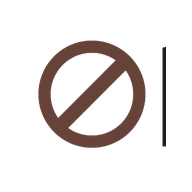
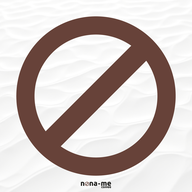
Add files via upload

diff --git a/app.js b/app.js
@@ -15,15 +15,42 @@ S.cms={...CMS_DEFAULTS,...(S.cms||{}),nav:{...CMS_DEFAULTS.nav,...((S.cms||{}).n
 S.products=Array.isArray(S.products)?S.products:[];S.promotions=Array.isArray(S.promotions)?S.promotions:[];S.users=Array.isArray(S.users)&&S.users.length?S.users:CMS_DEFAULTS.users||[{id:"u1",name:"Admin",username:"admin",password:"admin",role:"admin",active:true}];S.sales=Array.isArray(S.sales)?S.sales:[];S.expenses=Array.isArray(S.expenses)?S.expenses:[];S.deposits=Array.isArray(S.deposits)?S.deposits:[];S.cashCounts=Array.isArray(S.cashCounts)?S.cashCounts:[];S.stock=Array.isArray(S.stock)?S.stock:[];S.settings={shopName:"nona-me coffee",phone:"",address:"",telegram:"",rate:4000,...(S.settings||{})};S.ui={category:S.ui?.category||"All",search:S.ui?.search||"",menuView:S.ui?.menuView||"grid",currency:S.ui?.currency||"KHR",payment:S.ui?.payment||"Cash",cart:Array.isArray(S.ui?.cart)?S.ui.cart:[],adminSection:S.ui?.adminSection||"overview"};
 if(S.__migratedFrom){delete S.__migratedFrom;try{localStorage.setItem(KEY,JSON.stringify(S))}catch{}}
 
-function save(){localStorage.setItem(KEY,JSON.stringify(S))}
+const CLOUD={url:"https://aucwgnbhcbcovmshjmuo.supabase.co",key:"sb_publishable_XKT_TSLgOd75bhapXEUZ2Q_rs98dwcO",table:"nona_me_state",rowId:"main"};
+let cloudClient=null, cloudTimer=null, cloudBusy=false, cloudReady=false, cloudLast="", cloudSession=null;
+try{if(window.supabase?.createClient)cloudClient=window.supabase.createClient(CLOUD.url,CLOUD.key,{auth:{persistSession:true,autoRefreshToken:true,detectSessionInUrl:true}})}catch(e){console.warn("Supabase init failed",e)}
+function cloudState(){try{const x=JSON.parse(JSON.stringify(S));x.user=null;x.role=null;return x}catch{return {}}}
+function saveLocal(){localStorage.setItem(KEY,JSON.stringify(S))}
+function save(){saveLocal(); if(cloudClient&&cloudSession) queueCloudSave()}
+let cloudSaveTimer=null;
+function queueCloudSave(){clearTimeout(cloudSaveTimer);cloudSaveTimer=setTimeout(pushCloudState,250)}
+async function pushCloudState(){if(!cloudClient||!cloudSession||cloudBusy)return;cloudBusy=true;try{const payload={id:CLOUD.rowId,state:cloudState(),updated_at:new Date().toISOString()};const {error}=await cloudClient.from(CLOUD.table).upsert(payload,{onConflict:"id"});if(error)throw error;cloudReady=true;cloudLast=payload.updated_at;setCloudBadge()}catch(e){cloudReady=false;console.warn("Cloud save failed",e);setCloudBadge()}finally{cloudBusy=false}}
+async function pullCloudState(){if(!cloudClient||!cloudSession)return false;try{const {data,error}=await cloudClient.from(CLOUD.table).select("state,updated_at").eq("id",CLOUD.rowId).maybeSingle();if(error)throw error;if(data?.state){const incoming=data.state;const oldUser=S.user,oldRole=S.role;S={...S,...incoming,user:oldUser||S.user,role:oldRole||S.role,ui:{...S.ui,...(incoming.ui||{})}};saveLocal();cloudReady=true;cloudLast=data.updated_at||"";setCloudBadge();return true}return false}catch(e){console.warn("Cloud pull failed",e);cloudReady=false;setCloudBadge();return false}}
+async function loadCloudProfile(session){if(!cloudClient||!session?.user)return null;const {data,error}=await cloudClient.from("nona_me_profiles").select("id,display_name,role,active").eq("id",session.user.id).maybeSingle();if(error){console.warn("Profile load failed",error);return null}return data}
+async function signInCloud(email,password){if(!cloudClient)return false;const {data,error}=await cloudClient.auth.signInWithPassword({email,password});if(error){throw error}cloudSession=data.session;const profile=await loadCloudProfile(cloudSession);if(profile?.active===false)throw new Error("Account disabled");const name=profile?.display_name||email.split("@")[0];S.user={id:cloudSession.user.id,name,username:email,role:profile?.role||"staff",email};S.role=profile?.role||"staff";S.remember=true;saveLocal();await pullCloudState();return true}
+async function signUpCloud(email,password,name){if(!cloudClient)throw new Error("Cloud unavailable");const {data,error}=await cloudClient.auth.signUp({email,password,options:{data:{display_name:name||email.split("@")[0]}}});if(error)throw error;if(data.session){cloudSession=data.session;const profile=await loadCloudProfile(cloudSession);S.user={id:data.user.id,name:profile?.display_name||name||email.split("@")[0],username:email,role:profile?.role||"staff",email};S.role=profile?.role||"staff";saveLocal();await pullCloudState();}else{alert(S.lang==="kh"?"សូមពិនិត្យ Email ដើម្បីបញ្ជាក់គណនី មុនចូលប្រើ។":"Check your email to confirm your account before signing in.")} }
+async function restoreAuthSession(){if(!cloudClient)return false;try{const {data}=await cloudClient.auth.getSession();if(!data?.session)return false;cloudSession=data.session;const profile=await loadCloudProfile(cloudSession);if(profile?.active===false){await cloudClient.auth.signOut();return false}S.user={id:cloudSession.user.id,name:profile?.display_name||cloudSession.user.email.split("@")[0],username:cloudSession.user.email,role:profile?.role||"staff",email:cloudSession.user.email};S.role=profile?.role||"staff";await pullCloudState();return true}catch(e){console.warn("Session restore failed",e);return false}}
+function setCloudBadge(){const el=$("cloudStatus");if(!el)return;el.textContent=cloudSession?(cloudReady?"☁ Synced":"☁ Cloud"):("☁ Local")}
+async function initCloud(){if(!cloudClient){render();return}await restoreAuthSession();render();setCloudBadge();clearInterval(cloudTimer);if(cloudSession)cloudTimer=setInterval(async()=>{if(!cloudBusy){const had=await pullCloudState();if(had){applyTheme?.();render();setCloudBadge()}}},7000)}
+function cloudStatus(){return cloudSession?(cloudReady?"☁ Synced":"☁ Cloud"):"☁ Local"}
+
 function applyTheme(){document.documentElement.classList.remove("dark");document.documentElement.style.setProperty("--primary",S.cms.primary);document.documentElement.style.setProperty("--accent",S.cms.accent);document.documentElement.style.setProperty("--beige",S.cms.beige);document.documentElement.style.setProperty("--cream",S.cms.cream);document.documentElement.style.setProperty("--dark",S.cms.dark);document.documentElement.style.setProperty("--green",S.cms.green);document.querySelector('meta[name="theme-color"]')?.setAttribute('content',S.cms.pwa?.themeColor||S.cms.primary)}
 function logo(){return S.cms.logo||"assets/nona-me-logo.png"}function nav(){let n=[["sales","💰"],["menu","☕"],["expenses","🧾"],["cash","💵"],["deposit","🏦"],["stock","📦"],["report","📊"],["reports","📆"],["history","🗂"]].filter(([k])=>S.cms.nav?.[k]!==false);if(S.role==="admin")n.push(["admin","⚙"]);return n}
 function langSwitch(){return `<button class="btn" id="langBtn">${S.lang==="kh"?"English":"ខ្មែរ"}</button>`}
 function render(){applyTheme();if(!S.user){document.getElementById("app").innerHTML=loginView();bindLogin();return}document.getElementById("app").innerHTML=appView();bindGlobal();renderPage()}
-function loginView(){return `<div class="login-screen"><div class="login-card panel"><img class="login-logo" src="${logo()}"><h2>${esc(S.cms.shopName)}</h2><p class="muted">${esc(S.cms.tagline)}</p><div class="field"><label>${L("username")}</label><input id="loginUser" autocomplete="username"></div><div class="field" style="margin-top:9px"><label>${L("password")}</label><input id="loginPass" type="password" autocomplete="current-password"></div><label style="display:flex;gap:8px;align-items:center;margin:10px 0;font-weight:700"><input id="remember" type="checkbox" style="width:auto" ${S.remember?"checked":""}>${L("remember")}</label><button id="doLogin" class="btn btn-primary" style="width:100%;padding:12px">${L("login")}</button><div class="small muted" style="margin-top:10px">Staff: staff01 / 1234 · Admin: admin / admin</div><div class="login-actions" style="margin-top:10px">${langSwitch()}</div></div></div>`}
-function appView(){let top=nav().map(([k,i])=>`<button class="tab ${S.page===k?"active":""}" data-page="${k}">${i} ${L(k)}</button>`).join("");let b=(S.role==="admin"?[["sales","💰"],["menu","☕"],["report","📊"],["stock","📦"],["admin","⚙"]]:[["sales","💰"],["menu","☕"],["report","📊"],["stock","📦"],["cash","💵"]]).map(([k,i])=>`<button class="${S.page===k?"active":""}" data-page="${k}">${i}<br>${L(k)}</button>`).join("");return `<header class="topbar"><div class="brand"><img src="${logo()}"><div><div class="brand-title">${esc(S.cms.shopName)}</div><div class="brand-sub">Nona-me Sales</div></div></div><div class="top-actions">${langSwitch()}<button class="btn" id="switchUser">${L("switchUser")}</button><button class="btn" id="logout">${L("logout")}</button></div></header><main class="wrap"><nav class="tabs">${top}</nav>${S.cms.showAnnouncement&&S.cms.announcement?`<div class="site-announcement">📢 ${esc(S.cms.announcement)}</div>`:""}<div id="page"></div></main><nav class="bottom-nav">${b}</nav><div id="modalRoot"></div>`}
-function bindLogin(){$("langBtn").onclick=()=>{S.lang=S.lang==="kh"?"en":"kh";save();render()};$("doLogin").onclick=()=>{let u=$("loginUser").value.trim(),p=$("loginPass").value,user=S.users.find(x=>x.username===u&&x.password===p&&x.active!==false);if(!user)return alert(L("required"));S.user={id:user.id,name:user.name,username:user.username,role:user.role};S.role=user.role;S.remember=$("remember").checked;save();render()}}
-function bindGlobal(){document.querySelectorAll("[data-page]").forEach(b=>b.onclick=()=>{if(b.dataset.page==="reports"&&S.role!=="admin")return;S.page=b.dataset.page;save();renderPage()});$("langBtn").onclick=()=>{S.lang=S.lang==="kh"?"en":"kh";save();render()};$("switchUser").onclick=()=>{S.user=null;S.role=null;save();render()};$("logout").onclick=()=>{S.user=null;S.role=null;save();render()}}
+function loginView(){return `<div class="login-screen"><div class="login-card panel"><img class="login-logo" src="${logo()}"><h2>${esc(S.cms.shopName)}</h2><p class="muted">${esc(S.cms.tagline)}</p><div class="field"><label>${S.lang==='kh'?'Email ឬ Username':'Email or Username'}</label><input id="loginUser" autocomplete="username"></div><div class="field" style="margin-top:9px"><label>${L("password")}</label><input id="loginPass" type="password" autocomplete="current-password"></div><div class="field" style="margin-top:9px"><label>${S.lang==='kh'?'ឈ្មោះសម្រាប់គណនី Cloud':'Cloud Account Name'}</label><input id="cloudName" placeholder="${S.lang==='kh'?'ប្រើពេលបង្កើត Cloud Account':'Used when creating a Cloud Account'}"></div><label style="display:flex;gap:8px;align-items:center;margin:10px 0;font-weight:700"><input id="remember" type="checkbox" style="width:auto" ${S.remember?"checked":""}>${L("remember")}</label><div class="login-actions" style="display:grid;grid-template-columns:1fr 1fr;gap:8px"><button id="doLogin" class="btn btn-primary" style="width:100%;padding:12px">${L("login")}</button><button id="cloudSignup" class="btn" style="width:100%;padding:12px">${S.lang==='kh'?'បង្កើត Cloud Account':'Create Cloud Account'}</button></div><div class="small muted" style="margin-top:10px">${S.lang==='kh'?'ចូលដោយ username/password ដើម្បីប្រើ Local Demo។ ប្រើ Email + Password ដើម្បីប្រើ Cloud Sync។':'Use username/password for the local demo. Use Email + Password for Cloud Sync.'}</div><div class="login-actions" style="margin-top:10px">${langSwitch()}</div></div></div>`}
+function appView(){let top=nav().map(([k,i])=>`<button class="tab ${S.page===k?"active":""}" data-page="${k}">${i} ${L(k)}</button>`).join("");let b=(S.role==="admin"?[["sales","💰"],["menu","☕"],["report","📊"],["stock","📦"],["admin","⚙"]]:[["sales","💰"],["menu","☕"],["report","📊"],["stock","📦"],["cash","💵"]]).map(([k,i])=>`<button class="${S.page===k?"active":""}" data-page="${k}">${i}<br>${L(k)}</button>`).join("");return `<header class="topbar"><div class="brand"><img src="${logo()}"><div><div class="brand-title">${esc(S.cms.shopName)}</div><div class="brand-sub">Nona-me Sales</div></div></div><div class="top-actions"><span id="cloudStatus" class="small muted" title="Supabase sync">☁ Local</span>${langSwitch()}<button class="btn" id="switchUser">${L("switchUser")}</button><button class="btn" id="logout">${L("logout")}</button></div></header><main class="wrap"><nav class="tabs">${top}</nav>${S.cms.showAnnouncement&&S.cms.announcement?`<div class="site-announcement">📢 ${esc(S.cms.announcement)}</div>`:""}<div id="page"></div></main><nav class="bottom-nav">${b}</nav><div id="modalRoot"></div>`}
+function bindLogin(){
+  $("langBtn").onclick=()=>{S.lang=S.lang==="kh"?"en":"kh";save();render()};
+  $("doLogin").onclick=async()=>{let u=$("loginUser").value.trim(),p=$("loginPass").value; if(!u||!p)return alert(L("required"));
+    try{
+      if(u.includes("@")&&cloudClient){await signInCloud(u,p);S.remember=$("remember").checked;save();render();return;}
+      let user=S.users.find(x=>x.username===u&&x.password===p&&x.active!==false);if(!user)return alert(L("required"));
+      S.user={id:user.id,name:user.name,username:user.username,role:user.role};S.role=user.role;S.remember=$("remember").checked;save();render();
+    }catch(e){alert(e?.message||L("required"))}
+  };
+  $("cloudSignup").onclick=async()=>{let email=$("loginUser").value.trim(),p=$("loginPass").value,name=$("cloudName").value.trim();if(!email.includes("@")||!p)return alert(S.lang==='kh'?"សូមបញ្ចូល Email និង Password សិន។":"Enter an Email and Password first.");try{await signUpCloud(email,p,name);if(S.user){render()}}catch(e){alert(e?.message||"Sign up failed")}};
+}
+function bindGlobal(){document.querySelectorAll("[data-page]").forEach(b=>b.onclick=()=>{if(b.dataset.page==="reports"&&S.role!=="admin")return;S.page=b.dataset.page;save();renderPage()});$("langBtn").onclick=()=>{S.lang=S.lang==="kh"?"en":"kh";save();render()};$("switchUser").onclick=async()=>{if(cloudClient&&cloudSession)await cloudClient.auth.signOut();cloudSession=null;S.user=null;S.role=null;saveLocal();render()};$("logout").onclick=async()=>{if(cloudClient&&cloudSession)await cloudClient.auth.signOut();cloudSession=null;S.user=null;S.role=null;saveLocal();render()}}
 function renderPage(){
   let p=$("page");
   if(!p)return;
@@ -319,3 +346,5 @@ window.addEventListener("error", (ev) => {
     el.prepend(box);
   }
 });
+
+window.addEventListener("load",()=>{setTimeout(initCloud,100)});

diff --git a/index.html b/index.html
@@ -3,5 +3,5 @@
 <meta name="theme-color" content="#8B2E23"><meta name="apple-mobile-web-app-capable" content="yes">
 <meta name="apple-mobile-web-app-title" content="Nona-me Sales Master"><link rel="manifest" href="manifest.webmanifest">
 <link rel="icon" href="icons/icon-192.png"><link rel="apple-touch-icon" href="icons/icon-192.png">
-<title>Nona-me Sales Master</title><link rel="stylesheet" href="style.css"><script src="https://cdn.jsdelivr.net/npm/html2canvas@1.4.1/dist/html2canvas.min.js"></script>
+<title>Nona-me Sales Master</title><link rel="stylesheet" href="style.css"><script src="https://cdn.jsdelivr.net/npm/html2canvas@1.4.1/dist/html2canvas.min.js"></script><script src="https://cdn.jsdelivr.net/npm/@supabase/supabase-js@2"></script>
 </head><body><div id="app"></div><script src="app.js"></script></body></html>

diff --git a/style.css b/style.css
@@ -106,3 +106,5 @@ input,select,textarea{width:100%;border:1px solid var(--line);border-radius:13px
 .admin-sidebar .nav-btn{width:100%;text-align:left}
 .sr-only{position:absolute;width:1px;height:1px;padding:0;margin:-1px;overflow:hidden;clip:rect(0,0,0,0);white-space:nowrap;border:0}
 @media(max-width:800px){.admin-layout{grid-template-columns:1fr}.admin-sidebar{display:none}.admin-mobile-nav{display:block}.admin-main{width:100%}.admin-main .panel{overflow:visible}.row-actions{flex-wrap:wrap}}
+
+#cloudStatus{white-space:nowrap}.top-actions{flex-wrap:wrap}

diff --git a/README.md b/README.md
@@ -1,33 +1,24 @@
-# Nona-me Sales — Master System 1.0
+# Nona-me Sales — Master System 1.2
 
-This is the new clean baseline for the Nona-me Sales web app.
+Full replacement package for the Nona-me sales web app.
 
-## Included modules
-- Staff/Admin login
-- Khmer / English single-language UI
-- Sales and cart
-- Promotions
-- KHR / USD with independent payment method
-- Expenses
-- Cash drawer and cash count
-- Bank deposits
-- Stock / inventory
-- Product & menu management
-- Product/stock image upload and camera capture with 1:1 preview/retake
-- Daily report, weekly/monthly reports, history
-- Copy Text, Print and Save Image report actions
-- Admin Control Center
-- Website branding/settings/navigation/report/receipt configuration
-- Staff & user management
-- Records and audit log
-- PWA / phone / tablet support
+## Supabase
+Project URL is already configured in `app.js`.
+The frontend uses the Supabase Publishable Key only.
 
-## Data model
-The current baseline runs in browser localStorage and includes migration from prior Nona-me versions. Cloud sync is intentionally not enabled until a Supabase project is configured.
+### First setup
+1. Open Supabase Dashboard.
+2. Go to **SQL Editor**.
+3. Open `supabase_schema.sql` from this package.
+4. Paste the whole file and click **Run**.
+5. In **Authentication → Providers → Email**, enable Email provider.
+6. For easier first testing, you may disable email confirmation. For production, use your preferred email verification policy.
+
+### Cloud accounts
+- The first Cloud Account created becomes **Admin**.
+- Later Cloud Accounts become **Staff** by default.
+- Login with Email + Password enables Cloud Sync across devices.
+- Username/password `admin/admin` and `staff01/1234` are kept as local demo fallback and do not provide Cloud Sync.
 
 ## Deployment
-Upload all files in this package to the GitHub repository root and let Vercel deploy it. Do not merge individual files from an older version.
-
-## Demo login
-Admin: admin / admin
-Staff: staff01 / 1234
+Extract the ZIP and replace the project files in GitHub. Vercel will deploy the updated project.
